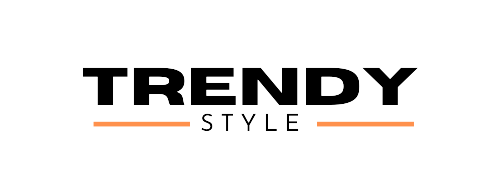
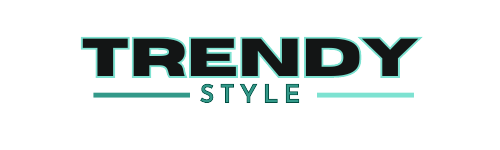
cambios en los colores

Changed region(s): [[0.15, 0.24, 0.84, 0.6933], [0.63, 0.6133, 0.84, 0.6667]]

diff --git a/src/assets/Styles.css b/src/assets/Styles.css
@@ -22,6 +22,7 @@
     width: 17%;
     height: auto;
     margin-right: 10px;
+    
 }
 .navBar {
     display: flex;
@@ -121,7 +122,6 @@
     border: 0px solid transparent;
     border-radius: 20px;
     padding: 10px 10px ;
-    background-color: var(--secondaryColor);
     
 }
 .access:hover{
@@ -130,7 +130,6 @@
     font-size: 18px;
     color: rgb(92, 92, 92);
     background-color: var(--threeColor);
-    outline: 2px solid var(--secondaryColor);
     border-radius: 20px;
 }
 .user-dropdown {
@@ -219,13 +218,14 @@
     display: flex;
     justify-content: center;
     backdrop-filter: blur(5px);
-    background-color: var(--threeColor)
+    background-color: #7de2d182;
     
 }
 .back-box div{
     margin: 100px 40px;
     color: var(--primaryColor);
     transition: all 500ms;
+    text-shadow: 4px 4px 8px rgba(0, 0, 0, 0.9);
 }
 .back-box div p, .back-box div button{
     margin-top: 30px;
@@ -345,7 +345,7 @@
     box-shadow: 10px 10px 5px 0px rgba(0, 0, 0, 0.5);
     width: 80%;
     max-height: 290px;
-    height: auto;
+    height: 290px;
     padding: 10% 10%;
     
 }

diff --git a/src/pages/Home.jsx b/src/pages/Home.jsx
@@ -7,7 +7,7 @@ import { useState,useEffect } from 'react';
 export const Home = () => {
   const [products, setProducts] = useState([]);
   const [searchTerm, setSearchTerm] = useState('');
-  const [searchResults, setSearchResults] = useState([]); // Nuevo estado para los productos filtrados
+  const [searchResults, setSearchResults] = useState([]);
 
   useEffect(() => {
     fetch('src/api/products.json')
